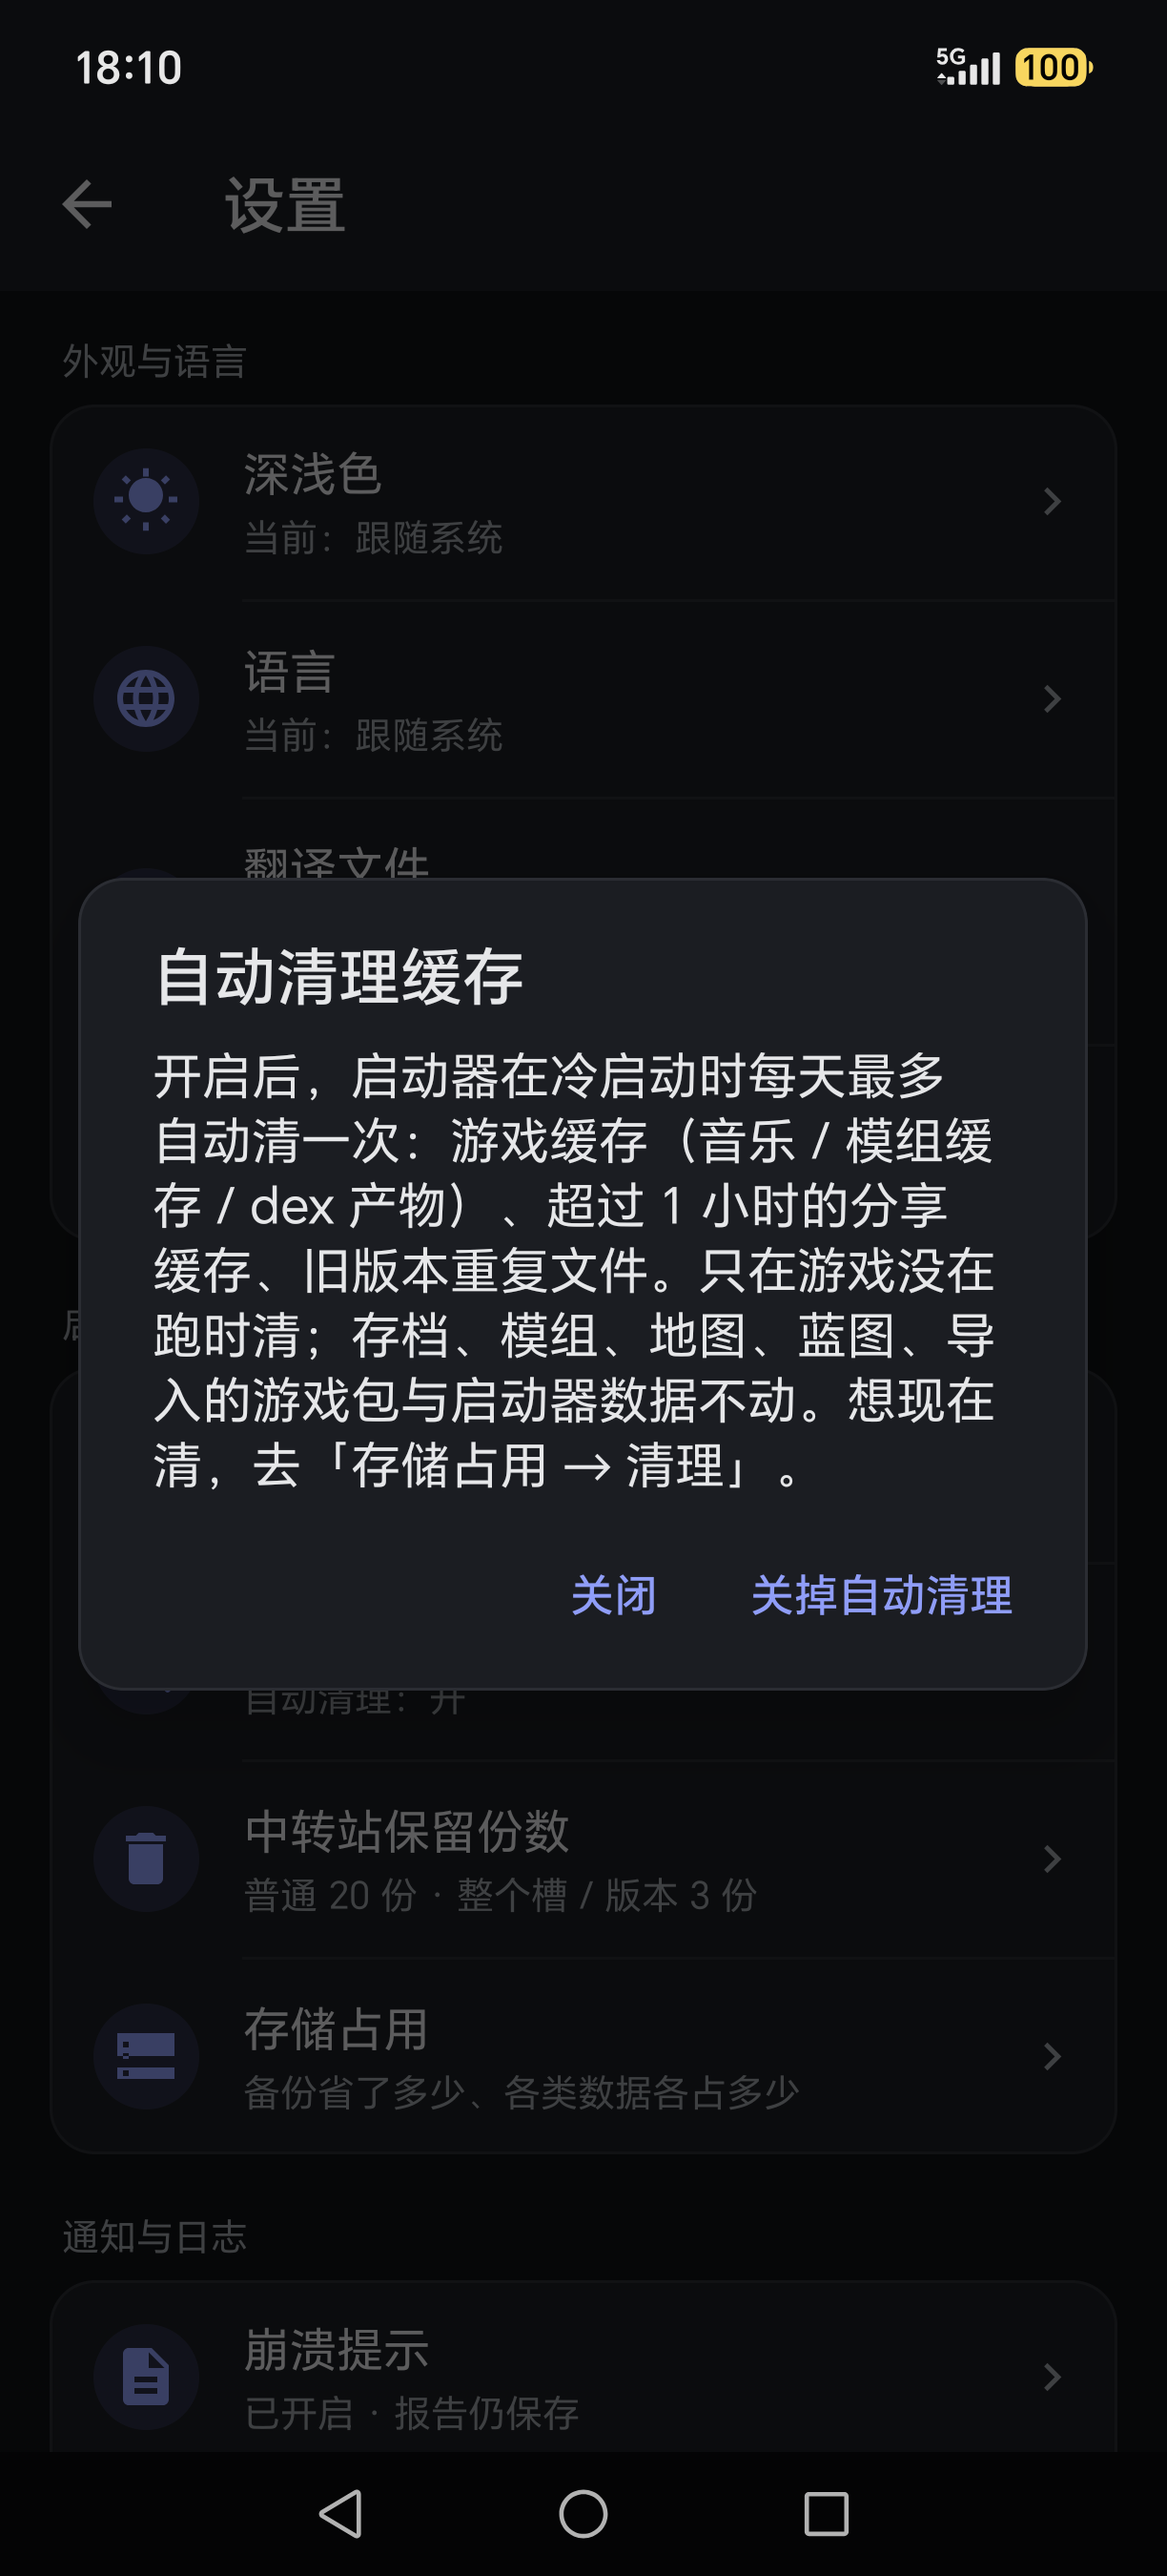
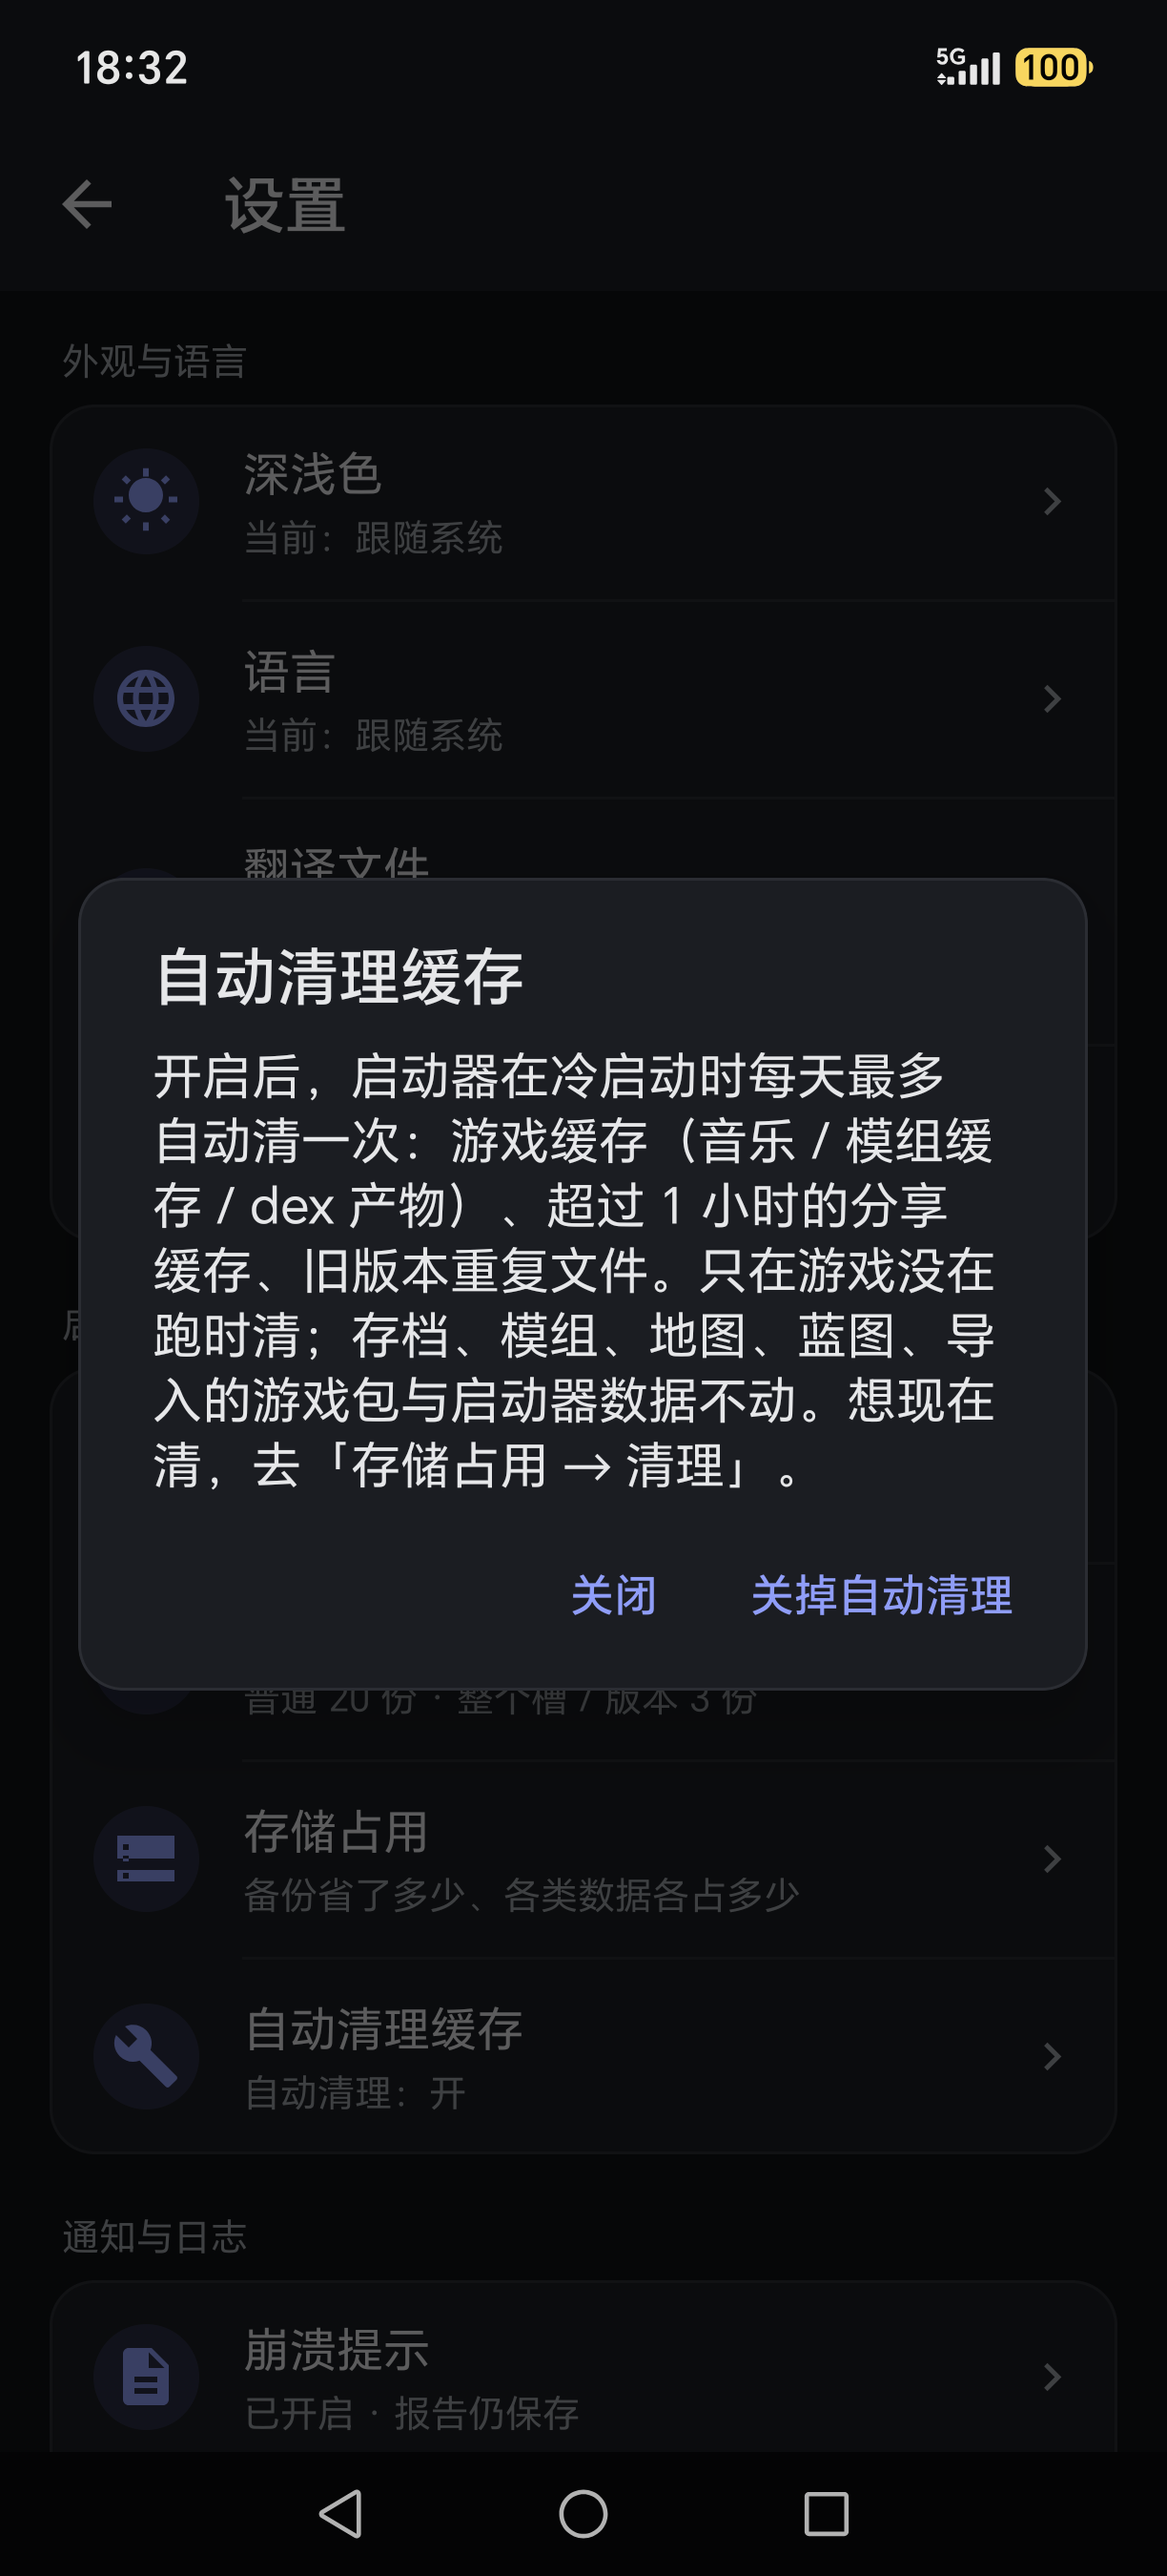
设置页：自动清理缓存放到存储占用下面（第 383 轮）
- activity_settings.xml 调换 row_auto_clean / row_storage 顺序（分割线跟着搬）
- 自检末行断言改成"自动清理缓存是最后一行、存储占用紧挨上面"，元断言保留
- 自检 2308/0；截图与证据按新顺序更新

diff --git a/app/src/io/mdt/launcher/SettingsActivity.java b/app/src/io/mdt/launcher/SettingsActivity.java
@@ -169,17 +169,6 @@ public class SettingsActivity extends BaseActivity {
         //   （用户点单：「中转站和运行日志不应该放在设置里」）。本页从此只放"能被改的项"，
         //   不再放"点开是另一个页面"的行。日志份数（下面那行）留在这里 —— 那是一个**设置值**。
 
-        // F20（2026-10-03 用户：「我们是不是应该给一些功能加上开关」）：
-        // ★ 全工程**唯一一个"静默删文件"**的动作就是它，所以只给它加了开关。
-        //   第 383 轮从一个开关管三样：「自动清理缓存」= 游戏缓存 + 分享缓存 + 旧版本重复文件；
-        //   调度在 Cleanup.autoCleanInBackground（冷启动、游戏没在跑、每 24h 最多一次）。
-        //   手动清理并进「存储占用 → 清理」，这一行只留自动开关（动作跟着数字走）。
-        View rowClean = Util.bindActionValue(root, R.id.row_auto_clean, R.drawable.ic_health,
-                R.string.set_autoclean_title, new Runnable() {
-                    @Override public void run() { promptAutoClean(); }
-                });
-        mAutoCleanSub = (TextView) rowClean.findViewById(R.id.act_sub);
-
         // ★ 2026-10-06（一档③+⑦）：存储占用 —— 备份省了多少 + 各类数据各占多少。
         //   只读：一个字节都不写。数字在后台算完再填进弹窗（见 showStorage）。
         Util.bindAction(root, R.id.row_storage, R.drawable.ic_storage,
@@ -188,6 +177,18 @@ public class SettingsActivity extends BaseActivity {
                         showStorage();
                     }
                 });
+
+        // F20（2026-10-03 用户：「我们是不是应该给一些功能加上开关」）：
+        // ★ 全工程**唯一一个"静默删文件"**的动作就是它，所以只给它加了开关。
+        //   第 383 轮从一个开关管三样：「自动清理缓存」= 游戏缓存 + 分享缓存 + 旧版本重复文件；
+        //   调度在 Cleanup.autoCleanInBackground（冷启动、游戏没在跑、每 24h 最多一次）。
+        //   手动清理并进「存储占用 → 清理」，这一行只留自动开关（动作跟着数字走）。
+        //   ★ 用户 2026-11-15：这一行**放在「存储占用」下面**（先看占用，再决定要不要自动清）。
+        View rowClean = Util.bindActionValue(root, R.id.row_auto_clean, R.drawable.ic_health,
+                R.string.set_autoclean_title, new Runnable() {
+                    @Override public void run() { promptAutoClean(); }
+                });
+        mAutoCleanSub = (TextView) rowClean.findViewById(R.id.act_sub);
 
         // 中转站（2026-10-05 第 102 轮）—— ★ 2026-10-08（第 123 轮）**搬去主界面的工具卡**了
         //   （用户点单）。它仍然不属于任何一个槽（所以没进槽页），只是不再住"设置"里。

diff --git a/app/src/io/mdt/launcher/SelfTest.java b/app/src/io/mdt/launcher/SelfTest.java
@@ -13905,22 +13905,29 @@ public final class SelfTest {
         //    （否则上面那条可能只是因为"末行"这个判据恒真。）
         try {
             android.view.View v = inf.inflate(R.layout.activity_settings, null);
+            android.view.View clean = v.findViewById(R.id.row_auto_clean);
             android.view.View storage = v.findViewById(R.id.row_storage);
-            android.view.ViewGroup card = storage == null ? null
-                    : (android.view.ViewGroup) storage.getParent();
-            boolean isLast = card != null
-                    && card.getChildAt(card.getChildCount() - 1) == storage;
-            ok(stat, L, isLast,
-                    "★设置页：存储占用是设置卡的**最后一行** —— 中转站 / 运行日志不许再回到设置里");
+            android.view.ViewGroup card = clean == null ? null
+                    : (android.view.ViewGroup) clean.getParent();
+            int ci = card == null ? -1 : card.indexOfChild(clean);
+            boolean isLast = card != null && ci >= 0
+                    && card.getChildAt(card.getChildCount() - 1) == clean;
+            // 用户 2026-11-15：「把自动清理缓存放在存储占用下面」⇒ 存储占用紧挨着它上面
+            // （中间隔一条 1dp 分割线 ⇒ 下标差 2）。
+            boolean storageAbove = card != null && ci >= 2
+                    && card.getChildAt(ci - 2) == storage;
+            ok(stat, L, isLast && storageAbove,
+                    "★设置页：自动清理缓存在最后一行、存储占用紧挨在它上面"
+                            + "（用户 2026-11-15 要求放存储占用下面）");
             if (card != null) {
                 android.view.View extra = new android.view.View(ctx);
                 card.addView(extra);                       // 临时塞一行，模拟"入口又搬回来了"
-                boolean stillLast = card.getChildAt(card.getChildCount() - 1) == storage;
+                boolean stillLast = card.getChildAt(card.getChildCount() - 1) == clean;
                 card.removeView(extra);
                 ok(stat, L, !stillLast,
                         "★元断言：往设置卡末尾塞一行之后，上面那条判据必须变红（判据不是恒真的）");
             } else {
-                ok(stat, L, false, "★元断言：设置卡找不到（row_storage 不在树里）");
+                ok(stat, L, false, "★元断言：设置卡找不到（row_auto_clean 不在树里）");
             }
         } catch (Throwable t) {
             ok(stat, L, false, "设置页末行检查自身异常：" + t);
